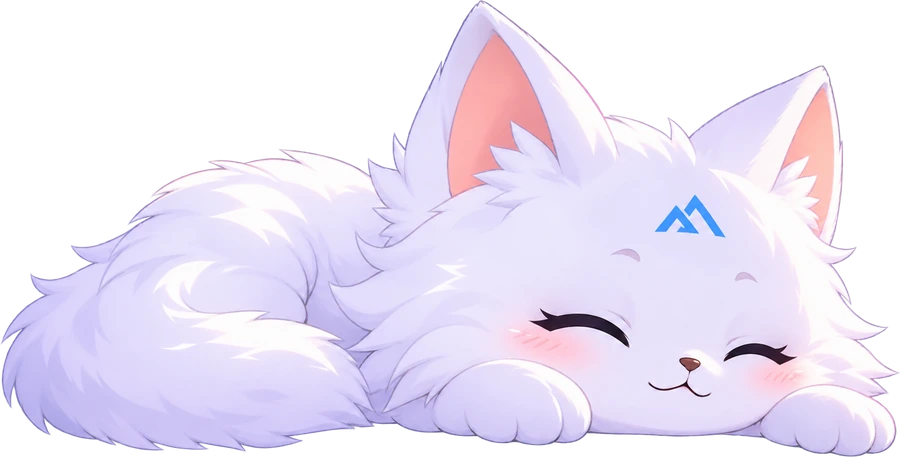
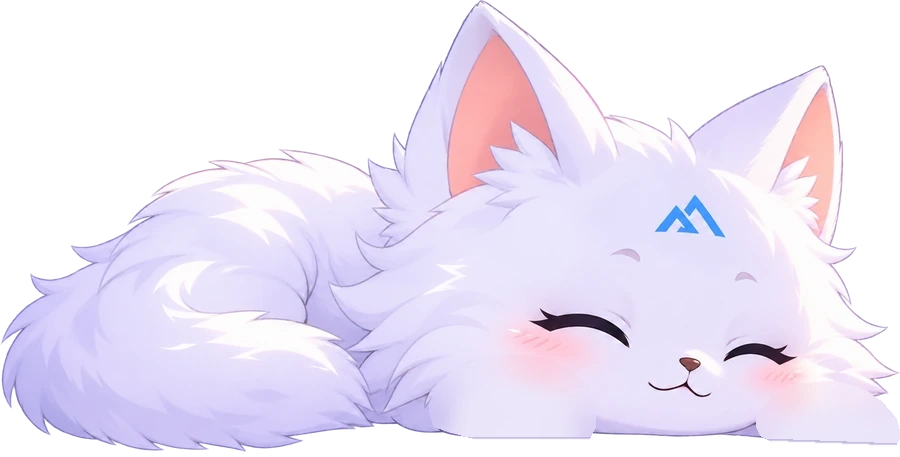
New homepage

Changed region(s): [[0.84, 0.8578, 1.0, 1.0], [0.4667, 0.7659, 0.6844, 0.9803], [0.4667, 0.8578, 0.4978, 0.8884]]

diff --git a/app/src/main/assets/home/home.js b/app/src/main/assets/home/home.js
@@ -738,6 +738,95 @@
     if (!document.hidden) { renderClock(false); loadWeather(false); }
   });
 
+  // ---- Mèo: đuôi vẫy liên tục, thỉnh thoảng gãi má (luân phiên trái/phải) ----
+  (function catIdle() {
+    var box = $('cat');
+    if (!box || reduced) return;
+    var baseImg = box.querySelector('.cb');
+    var cv = box.querySelector('.cc');
+    var ctx = cv && cv.getContext && cv.getContext('2d');
+    var paws = { L: $('pawL'), R: $('pawR') };
+    if (!ctx || !paws.L || !paws.R) return;
+
+    var W = 900, H = 457, TAIL = 360, STEP = 4;
+    var MAXA = { L: -25, R: 33 };       // góc giơ chân tối đa (độ)
+    var DUR = 2.6;                      // một lần gãi: giơ 0.45s, cọ 1.65s, hạ 0.5s
+    var img = new Image();
+    var clock = 0, last = 0, rafId = 0;
+    var scratchAt = -1, nextAt = 2.2, side = 'L';
+    var onScreen = true;
+
+    function easeOut(x) { return 1 - Math.pow(1 - x, 3); }
+    function amount(t) {
+      if (t < 0.45) return easeOut(t / 0.45);
+      if (t < DUR - 0.5) return 1 + 0.15 * Math.sin((t - 0.45) / (DUR - 0.95) * Math.PI * 8);
+      return 1 - easeOut((t - (DUR - 0.5)) / 0.5);
+    }
+    function setPaw(s, v) { paws[s].style.transform = v ? 'rotate(' + (MAXA[s] * v).toFixed(2) + 'deg)' : ''; }
+
+    function size() {
+      var d = Math.min(window.devicePixelRatio || 1, 2.5);
+      cv.width = Math.round(box.clientWidth * d);
+      cv.height = Math.round(box.clientHeight * d);
+    }
+
+    function draw() {
+      var k = cv.width / W;
+      ctx.clearRect(0, 0, cv.width, cv.height);
+      // Đuôi: cắt ảnh thành cột mỏng, cột càng xa gốc đuôi càng lệch dọc nhiều.
+      for (var x = 0; x < TAIL; x += STEP) {
+        var f = (TAIL - x) / TAIL;
+        var dy = 17 * Math.pow(f, 1.6) * Math.sin(clock * 4.2 - f * 2.4);
+        ctx.drawImage(img, x, 0, STEP + 0.8, H, x * k, dy * k, (STEP + 0.8) * k, H * k);
+      }
+      ctx.drawImage(img, TAIL, 0, W - TAIL, H, TAIL * k, 0, (W - TAIL) * k, H * k);
+    }
+
+    function step(now) {
+      rafId = 0;
+      var dt = last ? Math.min((now - last) / 1000, 0.05) : 0;
+      last = now;
+      clock += dt;
+      draw();
+      if (scratchAt < 0 && clock >= nextAt) scratchAt = clock;
+      if (scratchAt >= 0) {
+        var t = clock - scratchAt;
+        if (t > DUR) {
+          setPaw(side, 0);
+          scratchAt = -1;
+          nextAt = clock + 4 + Math.random() * 4;
+          side = side === 'L' ? 'R' : 'L';
+        } else setPaw(side, amount(t));
+      }
+      run();
+    }
+    function run() {
+      if (!rafId && onScreen && !document.hidden) rafId = requestAnimationFrame(step);
+    }
+    function stop() {
+      if (rafId) { cancelAnimationFrame(rafId); rafId = 0; }
+      last = 0;
+    }
+
+    img.onload = function () {
+      size();
+      draw();
+      cv.hidden = false;
+      baseImg.style.visibility = 'hidden';
+      run();
+    };
+    img.src = baseImg.currentSrc || baseImg.src;
+
+    document.addEventListener('visibilitychange', function () { document.hidden ? stop() : run(); });
+    try {
+      new ResizeObserver(function () { if (img.complete) { size(); draw(); } }).observe(box);
+      new IntersectionObserver(function (es) {
+        onScreen = es[es.length - 1].isIntersecting;
+        onScreen ? run() : stop();
+      }).observe(box);
+    } catch (e) {}
+  })();
+
   store.del('summit.w2');
   renderClock(false);
   scheduleTick();

diff --git a/app/src/main/assets/home/home.css b/app/src/main/assets/home/home.css
@@ -67,6 +67,13 @@ main {
   pointer-events: none;
 }
 
+/* Mèo = ảnh nền (đuôi vẽ lại bằng canvas) + 2 chân tách riêng để gãi má. */
+#cat { aspect-ratio: 900 / 457; }
+#cat .cb, #cat .cc { position: absolute; inset: 0; width: 100%; height: 100%; display: block; }
+#cat .paw { position: absolute; height: auto; display: block; will-change: transform; }
+#pawL { left: 47.889%; top: 77.899%; width: 18.111%; transform-origin: 3.68% 82.22%; }
+#pawR { left: 84.222%; top: 83.807%; width: 15.556%; transform-origin: 87.14% 93.24%; }
+
 #clock {
   width: min(90vw, 440px);
   height: auto;

diff --git a/app/src/main/assets/home/index.html b/app/src/main/assets/home/index.html
@@ -10,7 +10,12 @@
 </head>
 <body>
 <main>
-  <img id="cat" src="summit_cat.webp" alt="" draggable="false">
+  <div id="cat" aria-hidden="true">
+    <img class="cb" src="summit_cat.webp" alt="" draggable="false">
+    <canvas class="cc" hidden></canvas>
+    <img class="paw" id="pawL" src="cat_paw_l.webp" alt="" draggable="false">
+    <img class="paw" id="pawR" src="cat_paw_r.webp" alt="" draggable="false">
+  </div>
   <svg id="clock" viewBox="0 0 400 142" role="img" aria-label="Đồng hồ"><text id="clockText" x="0" y="0"></text></svg>
   <p id="greeting"></p>
 
